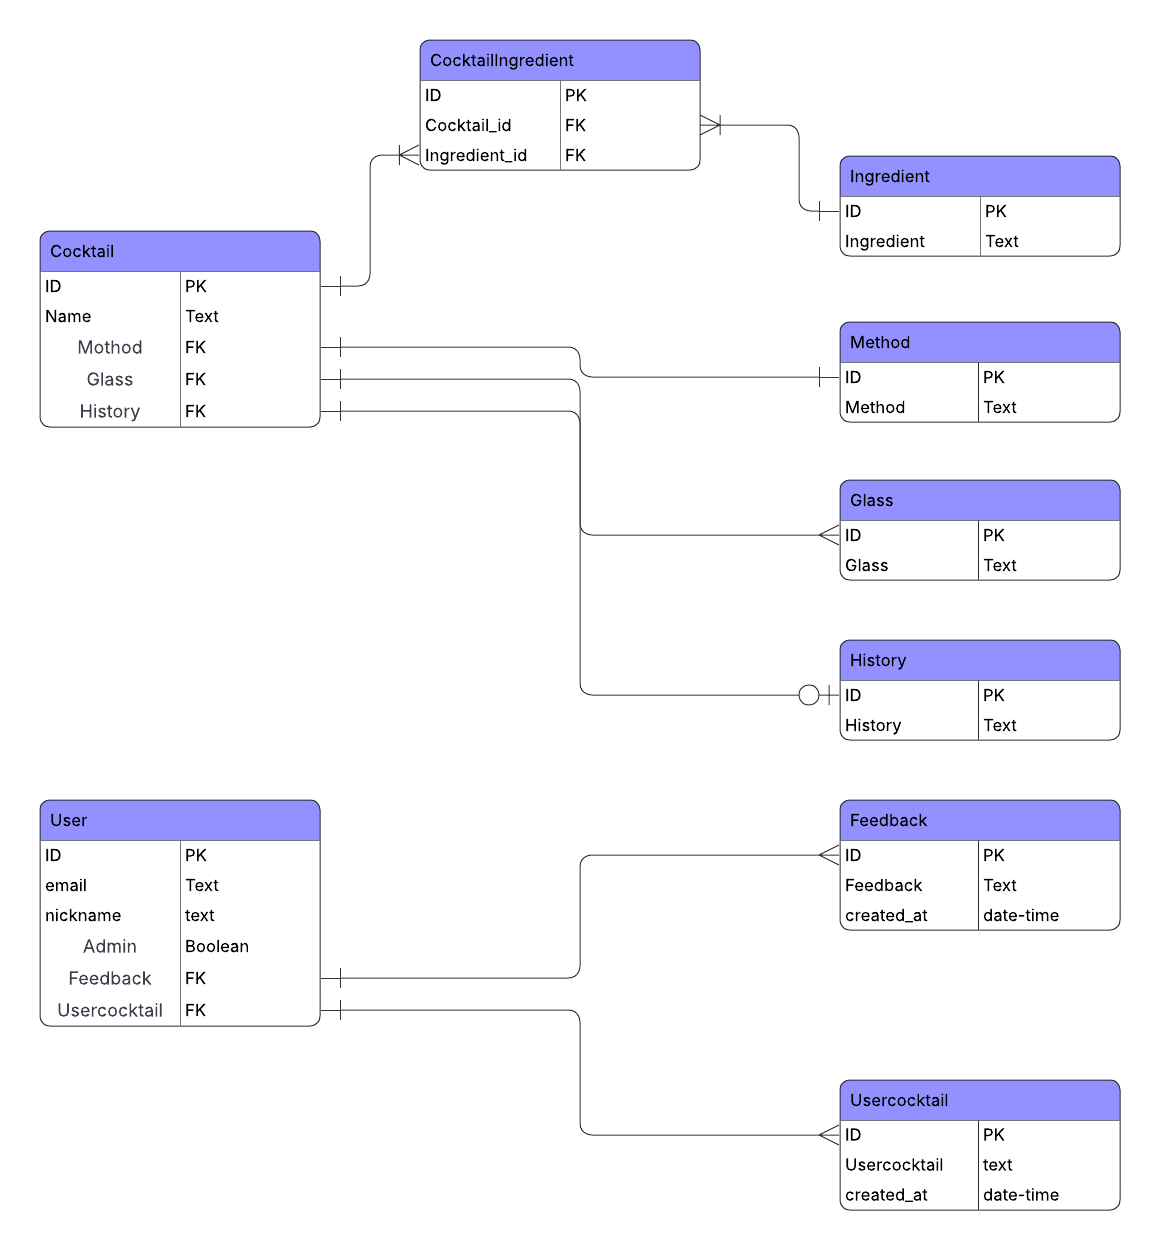
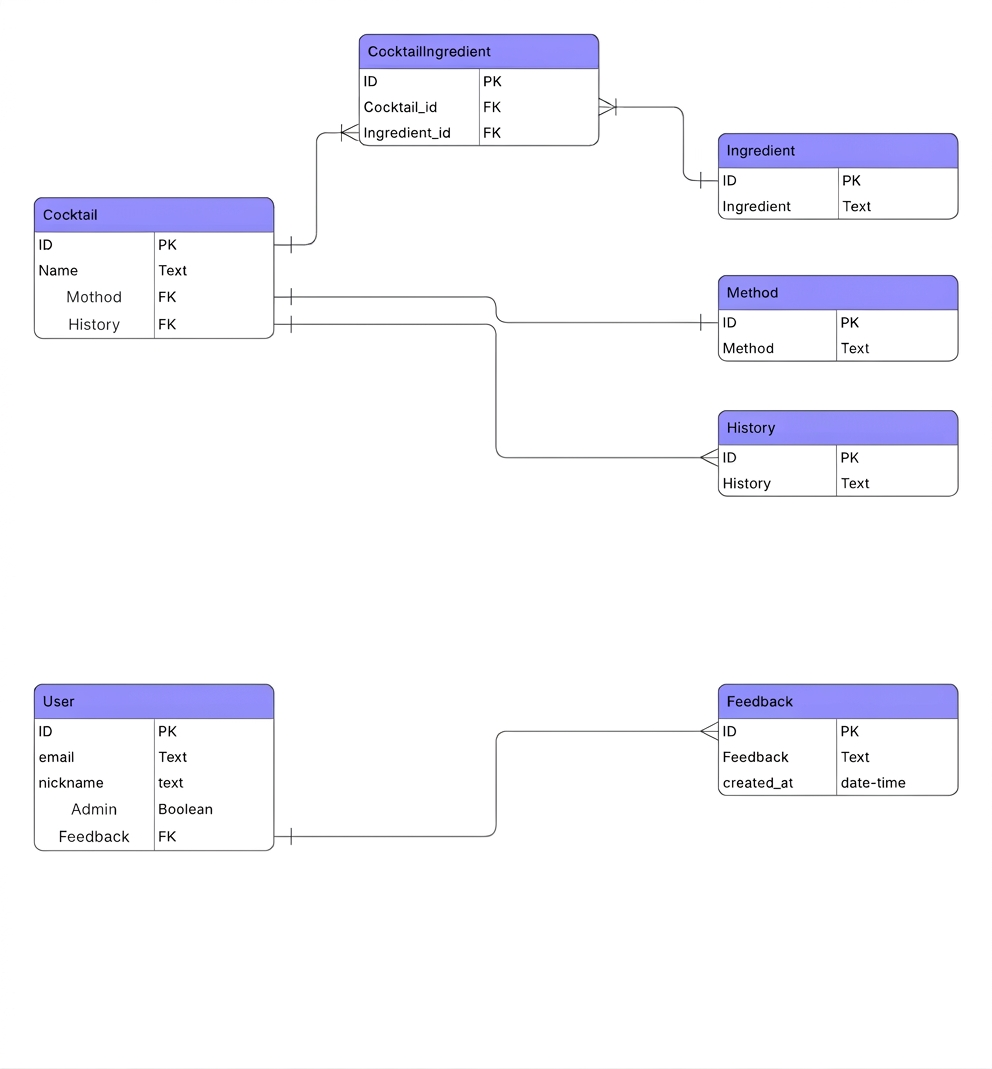
fingers crossed final documentation update

diff --git a/eslint.config.js b/eslint.config.js
@@ -48,4 +48,5 @@ export default [
       "no-undef": "warn"
     }
   }
+
 ];

diff --git a/README.md b/README.md
@@ -2,12 +2,16 @@
 
 Table of Contents
 - [Project Overview](#project-overview)
+- [Project Evolution](#direction)
+- [Security and Access Control](#pass)
 - [User Stories](#user-stories)
 - [GitHub Projects](#github-projects)
 - [Database Schema (ERD)](#db)
 - [Tech Stack](#tech-stack)
 - [Folder Structure](#folder-structure)
-- [](#)
+- [Acknowledgement ](#acknowledgement )
+- [Colour Theme](#colourtheme)
+- [Typography](#Typography)
 
 ## Project Overview
 Shaken!Stirred is a modern, visually‑driven cocktail discovery platform designed to combine style, usability, and scalable architecture. The project aims to deliver an engaging user experience through clean design, intuitive navigation, and a structured database capable of supporting future growth.
@@ -21,6 +25,25 @@ Because future advertising potential depends heavily on an active userbase, the 
 ## Objective
 The goal of this project is to develop a website that delivers a high‑quality visual user experience supported by a robust, well‑structured database backend. The site will be built using modern coding techniques, follow best practices in Django development, and include comprehensive documentation throughout.
 The final product should feel clean, responsive, and intentional — combining strong UX design with reliable, scalable architecture.
+
+<a id="direction"></a>
+
+## Project Evolution
+
+Shaken Not Stirred was originally conceived as a user-focused cocktail browsing application, providing visitors with an engaging way to explore cocktail recipes, ingredients, and related information. However, as development progressed and the application's requirements became clearer, it became apparent that the most frequent and demanding user would be the site administrator responsible for managing the cocktail database.
+
+This realisation fundamentally changed the direction of the project. Rather than relying on Django's default administration interface and standard browser-generated feedback, the project evolved to prioritise the creation of a dedicated administrative experience. What began as a relatively straightforward content browsing application expanded into a comprehensive CRUD system designed specifically around the needs of the administrator.
+
+As a result, significant additional functionality was introduced, including custom management interfaces, modal-based forms, validation systems, user-friendly feedback mechanisms, and streamlined navigation workflows. This shift accounted for a substantial portion of the overall development effort and greatly increased the scope of the project beyond its original objectives.
+
+While the initial development estimate was approximately four weeks, the decision to create a bespoke administration experience extended the project timeline considerably. Despite the additional complexity and development time, this evolution resulted in a more complete and practical application that not only serves end users but also provides an efficient and intuitive environment for managing site content.
+
+<a id="pass"></a>
+
+## Security and Access Control
+
+During development, the administrative interface gained the ability to perform full CRUD operations against the live database. As the application was intended for public deployment, it was considered essential to restrict access to these functions through authentication. Allowing unrestricted access would have exposed the application's data to accidental or malicious modification, making access control a necessary security measure rather than an optional feature.
+
 
 ## User Stories
 
@@ -189,7 +212,6 @@ Fields:
 - id (PK) — Unique identifier for each cocktail
 - name (Text) — The cocktail’s display name
 - method_id (FK → Method.id) — How the cocktail is prepared
-- glass_id (FK → Glass.id) — The type of glass it is served in
 - history_id (FK → History.id) — Optional historical background
 
 Purpose:
@@ -224,14 +246,6 @@ Fields:
 Purpose:
 Ensures consistent method naming across cocktails.
 
-### Glass
-Lookup table describing glass types.
-Fields:
-- id (PK) — Unique identifier
-- glass (Text) — e.g., “Highball”, “Martini”, “Rocks”
-
-Purpose:
-Standardises glassware references.
 
 ### History
 Lookup table containing optional historical notes for official cocktails.
@@ -254,18 +268,6 @@ Fields:
 Purpose:
 Represents all users in a single unified table, with admin status controlled by a Boolean flag.
 
-### UserCocktail
-Stores free‑form cocktail submissions created by users.
-These do not follow the structured format of official cocktails.
-Fields:
-- id (PK) — Unique identifier
-- user_id (FK → User.id) — The user who submitted the cocktail
-- usercocktail (Text) — Free‑form cocktail description
-- created_at (DateTime) — Submission timestamp
-
-Purpose:
-Allows users to submit creative cocktail ideas without enforcing structure.
-These may later be reviewed and adopted into the official Cocktail table.
 
 ### Feedback
 Stores general feedback messages submitted by users.
@@ -284,23 +286,24 @@ Provides a simple way for users to send comments, suggestions, or issues.
 
 ## Tech Stack
 
-- HTML5
-- CSS3
+- Python
+- Django
+- SQLite
+- HTML
+- CSS
+- JavaScript
+- PythonAnywhere (hosting/deployment)
 - canva.com (image editing)
+- squoosh.app (image editing)
 - Balsamiq.com (wireframes)
 - Googlefonts
-
-- JavaScript
-- JQuery
+- Visual Studio (file edit and organisation)
 - GitHub Pages (deployment)
 - GitHub Project (user stories)
-- Balsamiq.com (wireframes)
-- Copilot (website text articles)
-- fontawesome
-- w3.org (validators)
-- 7timer.info (weather API)
-- adobe.com (colour contrast analyzer)
-- google.com (google maps)
+- Copilot (website text articles, technical assistance with Django file structure)
+- w3.org ( CSS + HTML validators)
+- ESlint (javascript)
+- ruff (python validation)
 
 ## Folder Structure
 
@@ -391,3 +394,41 @@ shaken-not-stirred/
 └── testing.md
 
 ```
+
+## Acknowledgement
+
+## Adobe Firefly
+
+Shaken Not Stirred was always intended to be a highly visual application, using custom graphics to enhance both the user experience and the overall presentation of the site. Due to the limited availability of suitable copyright-free stock imagery and the specific visual requirements of the project, the majority of the graphics were created from scratch using Adobe Firefly through its free public platform. These custom-generated assets helped establish a consistent visual identity throughout the application while supporting its cocktail-themed design.
+
+## Microsoft Copilot
+
+Microsoft Copilot was used throughout the development process as a learning and support tool. It assisted with understanding Django best practices, identifying industry-standard approaches to application structure and development, and helping to ensure a consistent, predictable, and efficient user experience. Copilot also provided guidance during the planning phase, including support in designing and refining the Entity Relationship Diagram (ERD) used for the project's database structure.
+
+## Icons8
+
+Icons8 provided many of the icons used throughout Shaken Not Stirred. Their extensive library of high-quality icons helped support the site's visual design, improve user navigation, and create a more intuitive user experience. Icons were sourced from Icons8 and incorporated across various features of the application to maintain a consistent and professional appearance.
+
+## Colour Theme
+
+The colour palette for Shaken Not Stirred was inspired by the warm tones commonly associated with cocktails, tropical fruits, and sunset skies. The design centres around vibrant shades of orange, coral, and peach, creating a welcoming and energetic atmosphere that reflects the social and enjoyable nature of cocktail culture.
+
+The primary brand colour (#eb6a20) is used for key interactive elements, helping to draw attention to buttons, navigation controls, and important user actions. Complementary shades of soft peach and coral are used throughout content containers and backgrounds to provide warmth and depth without overwhelming the user. Darker orange-red accents are used for headings and titles, creating visual hierarchy and ensuring important information stands out.
+
+Semi-transparent content panels (rgba(241, 163, 118, 0.85)) were incorporated to soften the interface and maintain readability while allowing background imagery and visual elements to remain visible. Together, these colours create a cohesive, vibrant, and approachable user experience that reinforces the cocktail-inspired theme of the application.
+
+## Typography
+
+The typography for Shaken Not Stirred was chosen to balance personality with readability. The decorative Henny Penny font is used for prominent titles, headings, and branding elements, giving the application a playful and distinctive character that complements the fun and social nature of cocktail culture. Its handcrafted appearance helps create a sense of individuality and reinforces the site's themed design.
+
+To provide contrast and maintain readability, Englebert is used for supporting content and interface elements. Its cleaner and more approachable style ensures that information remains easy to read while still fitting naturally within the site's overall aesthetic.
+
+Together, these typefaces create a visual hierarchy that separates decorative elements from functional content, helping users navigate the application while maintaining a consistent and engaging personality throughout the site.
+
+### Fonts Used
+
+| Font | Purpose |
+|-----------|--------|
+|Henny Penny|Branding, headings, cocktail names, and feature titles|
+|Englebert|General content, interface text, labels, and supporting information|
+	
